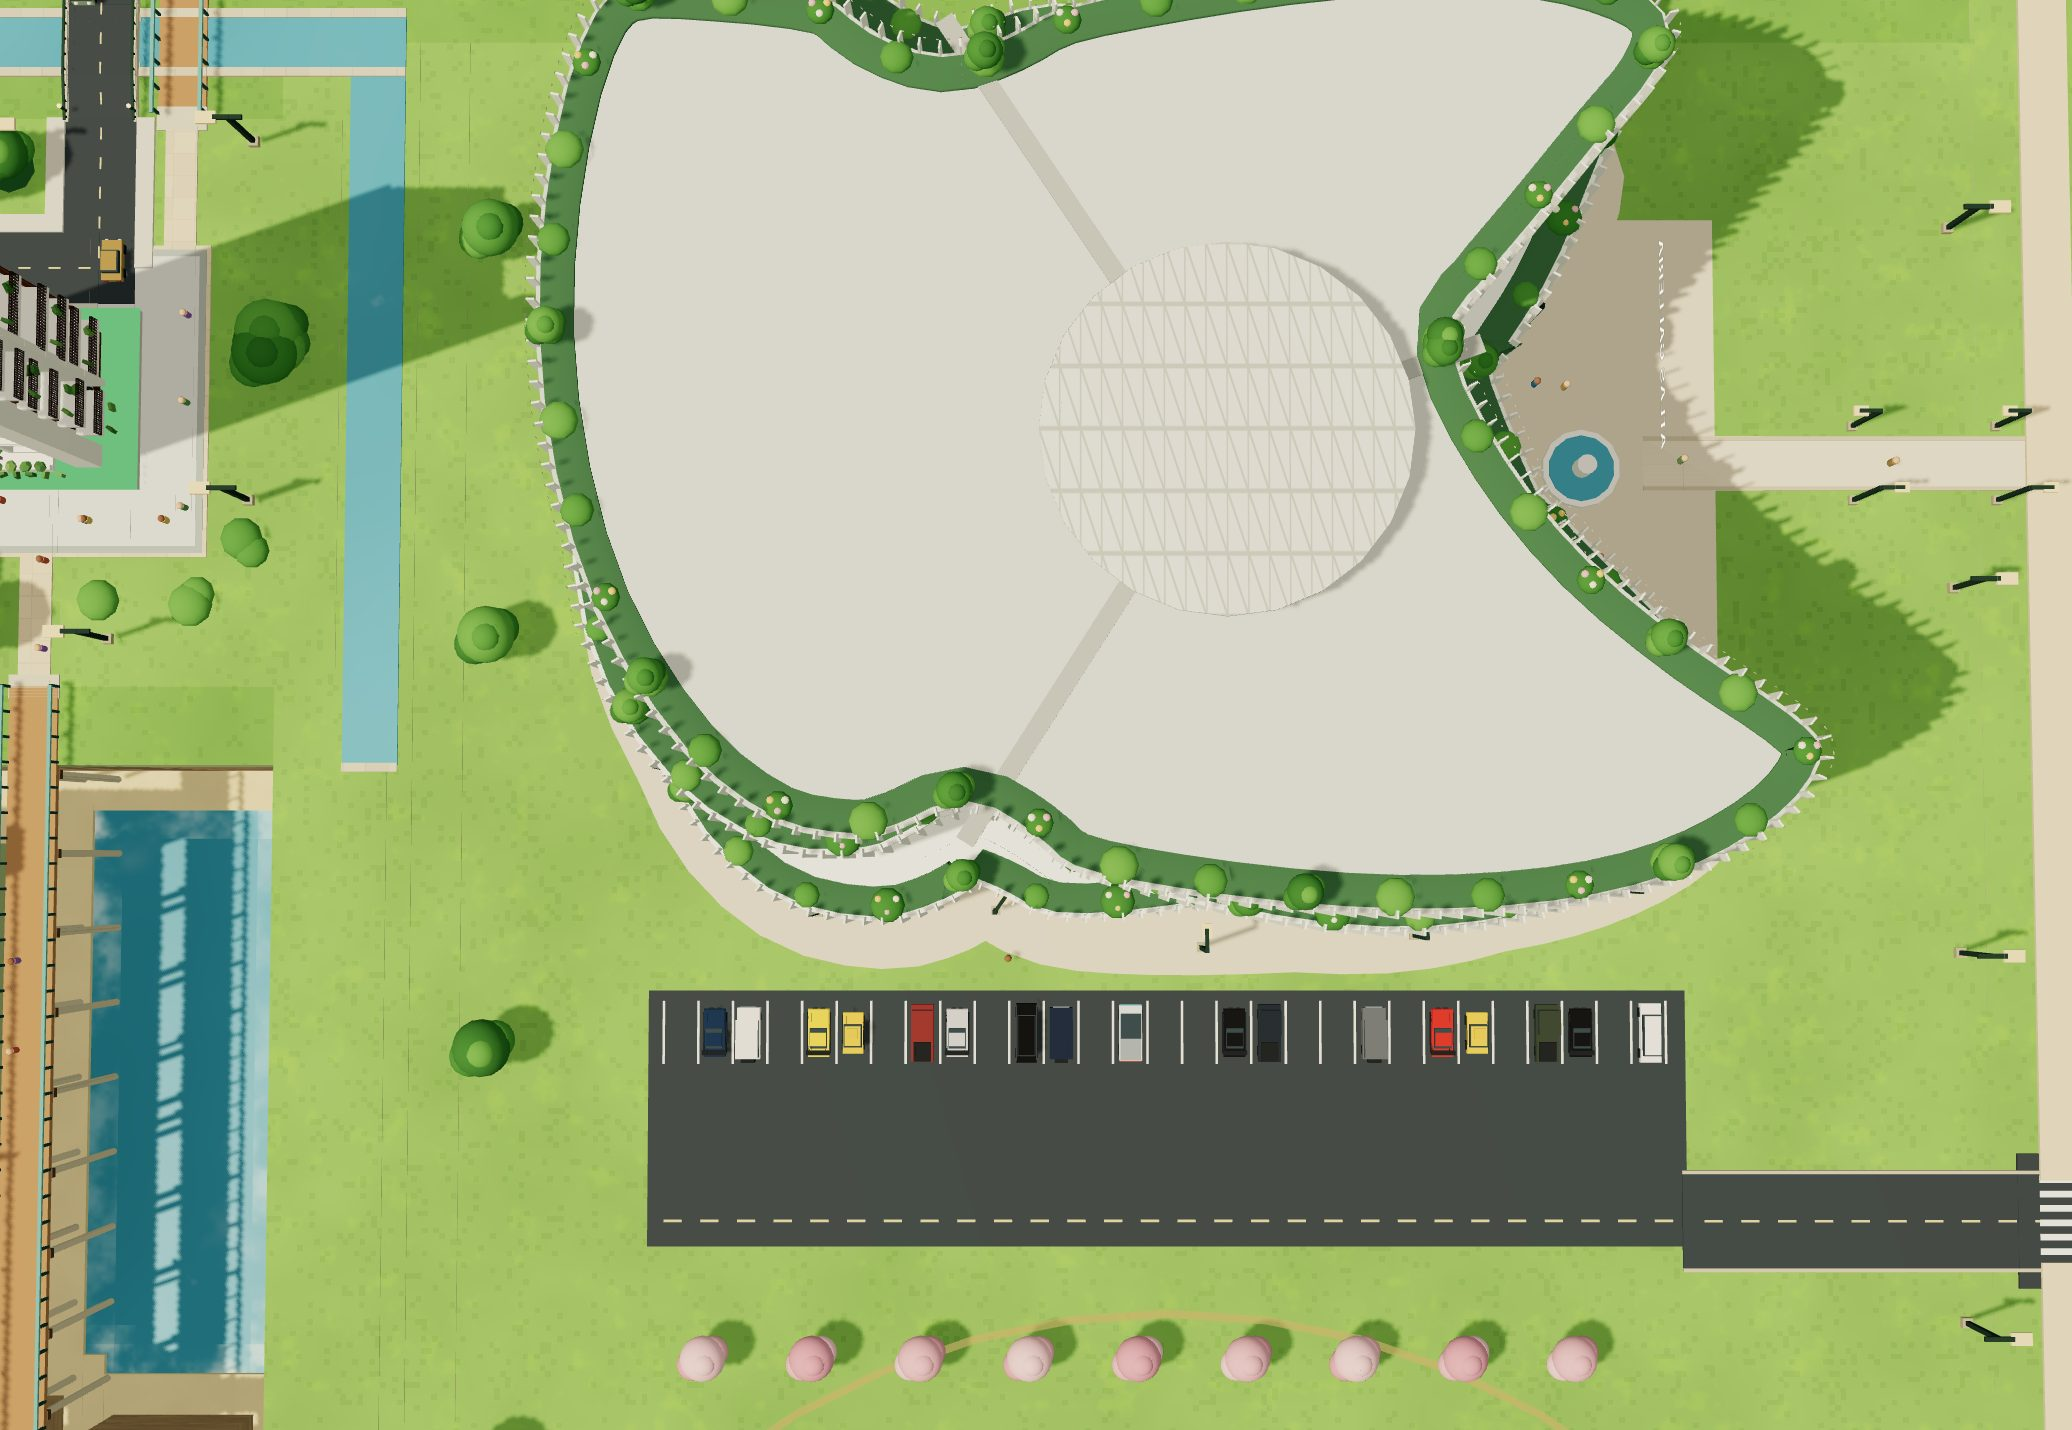
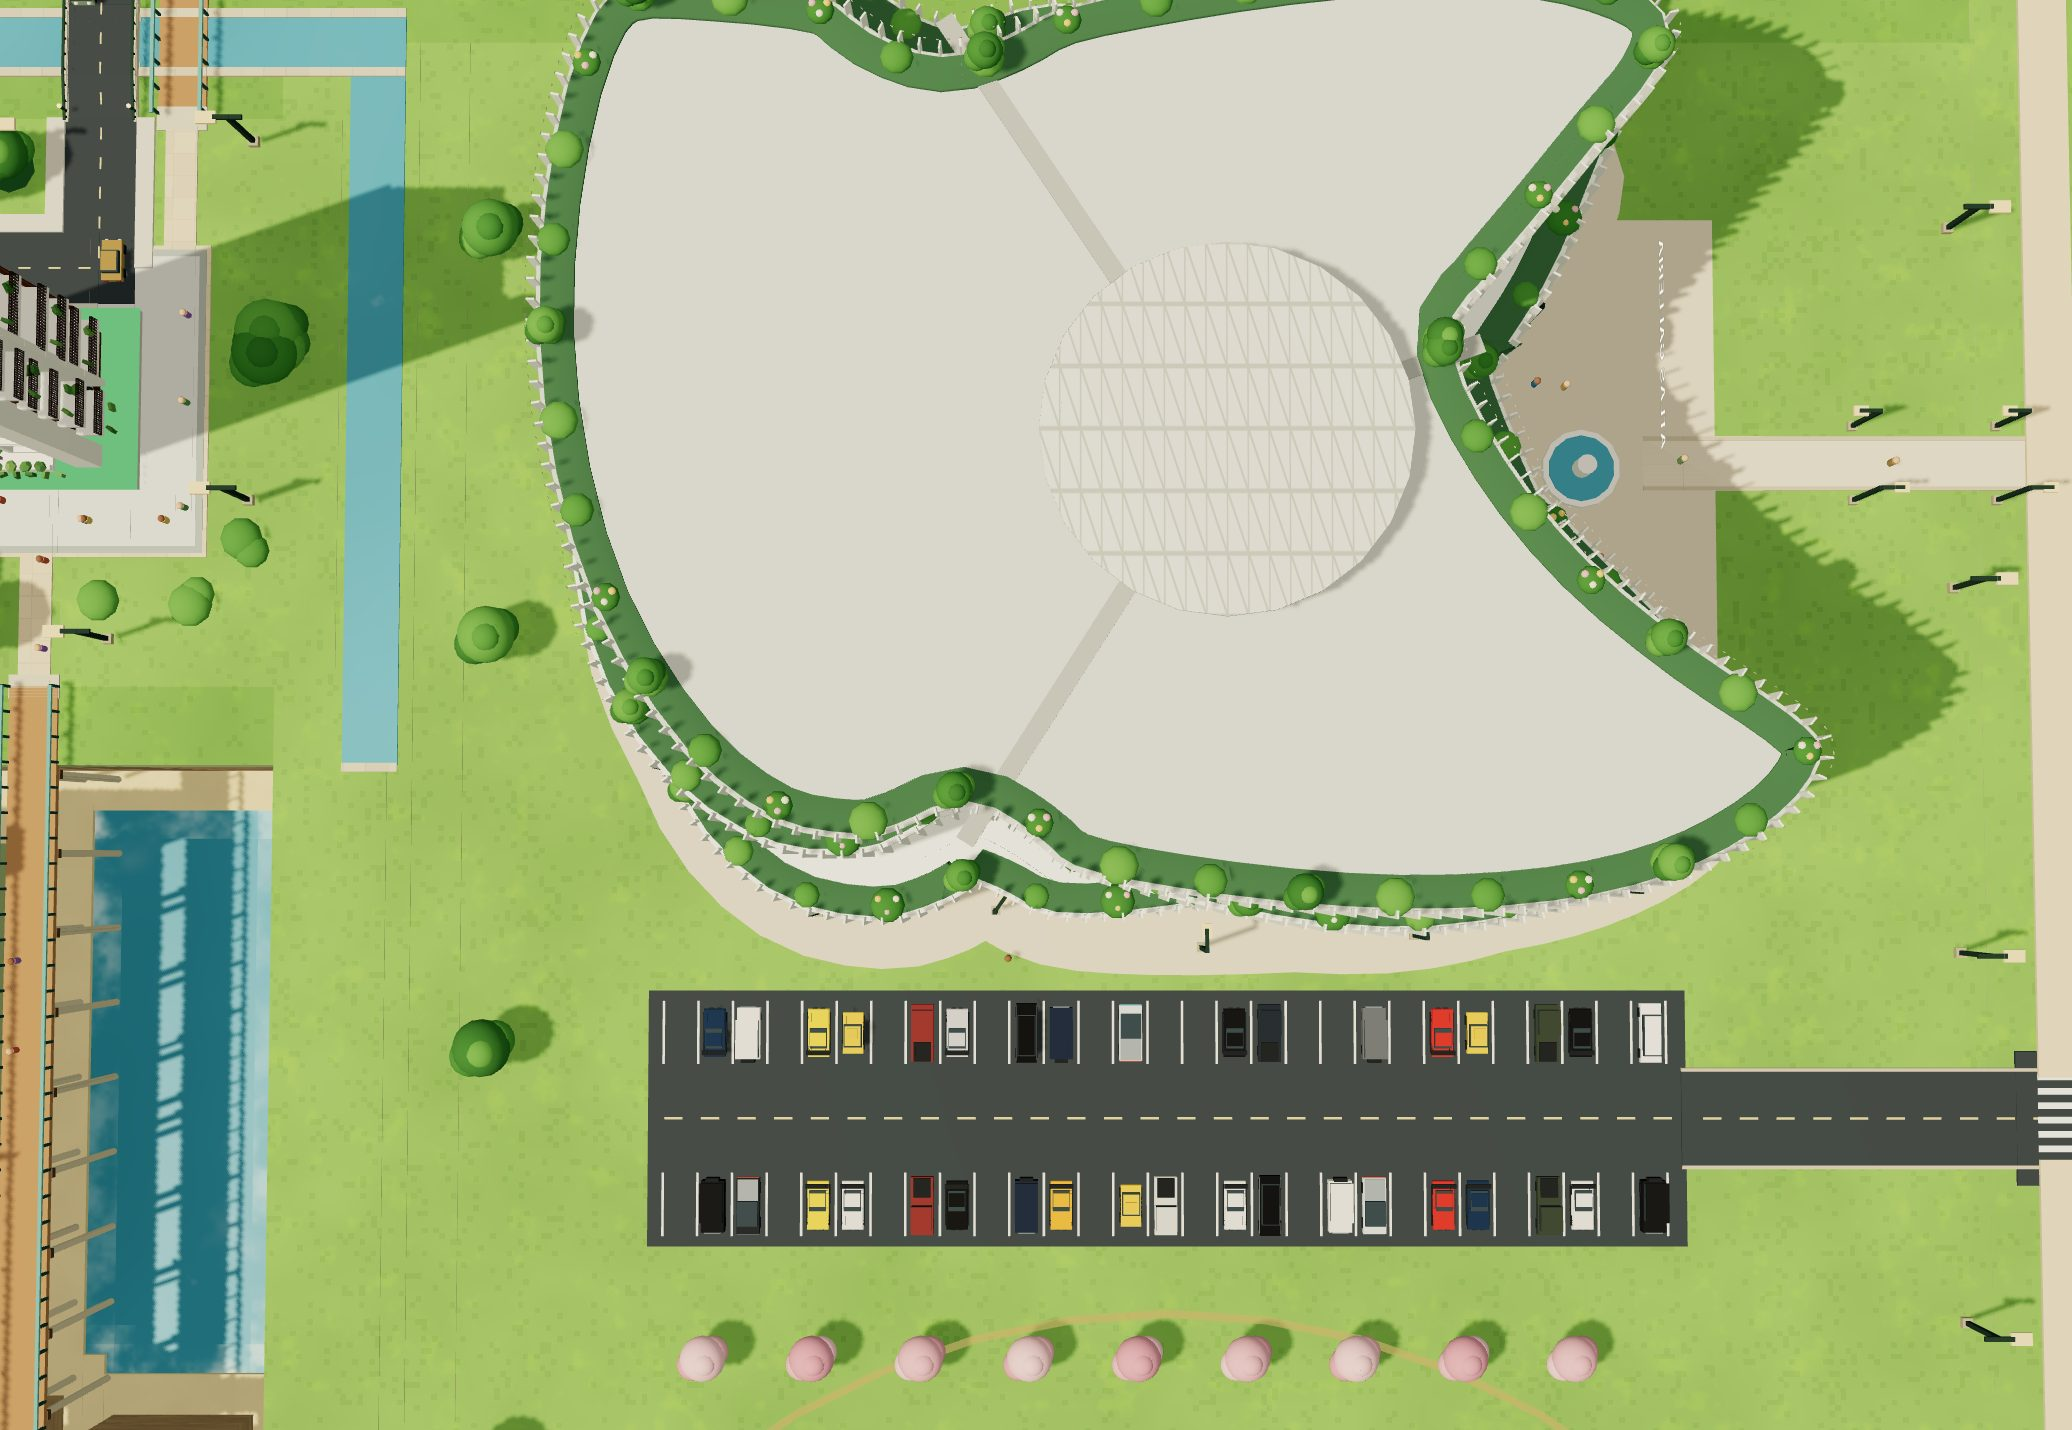
Fill the Galleria car park with a second row of bays across the aisle
The 2.5-deep lot had one row and a wide empty strip of asphalt; two rows
need 2.2, leaving a 1.06 aisle between them with the street centre line.

Claude-Session: https://claude.ai/code/session_01FS1cYQag1W9H44kuH91oqy

Changed region(s): [[0.3089, 0.7385, 1.0, 0.9231]]

diff --git a/src/views/map3d/galleriaPlan.ts b/src/views/map3d/galleriaPlan.ts
@@ -324,7 +324,7 @@ export function planGalleria(mall:MallPlan,land:Rect[],blockers:Rect[],y:number,
  if(pz1-pz0>=1.4){
   const px0=rect.x+.3,px1=rect.x+rect.w-.3;
   boxes.push({x:(px0+px1)/2,z:(pz0+pz1)/2,w:px1-px0,d:pz1-pz0,h:.012,y:0,c:STREET_ASPHALT});
-  const rows=pz1-pz0>=2.6?2:1,rowD=.62,bay=.34;
+  const rows=pz1-pz0>=2.2?2:1,rowD=.62,bay=.34;
   // One row backs onto the aisle beside the other; with a single row the aisle runs along its open side.
   parking={area:{x:px0,z:pz0,w:px1-px0,d:pz1-pz0},aisle:rows===2?(pz0+pz1)/2:pz1-.25,driven:[]};let cars=0;
   // The aisle is a two-way street: the city's dashed centre line, from the far end to the driveway.
